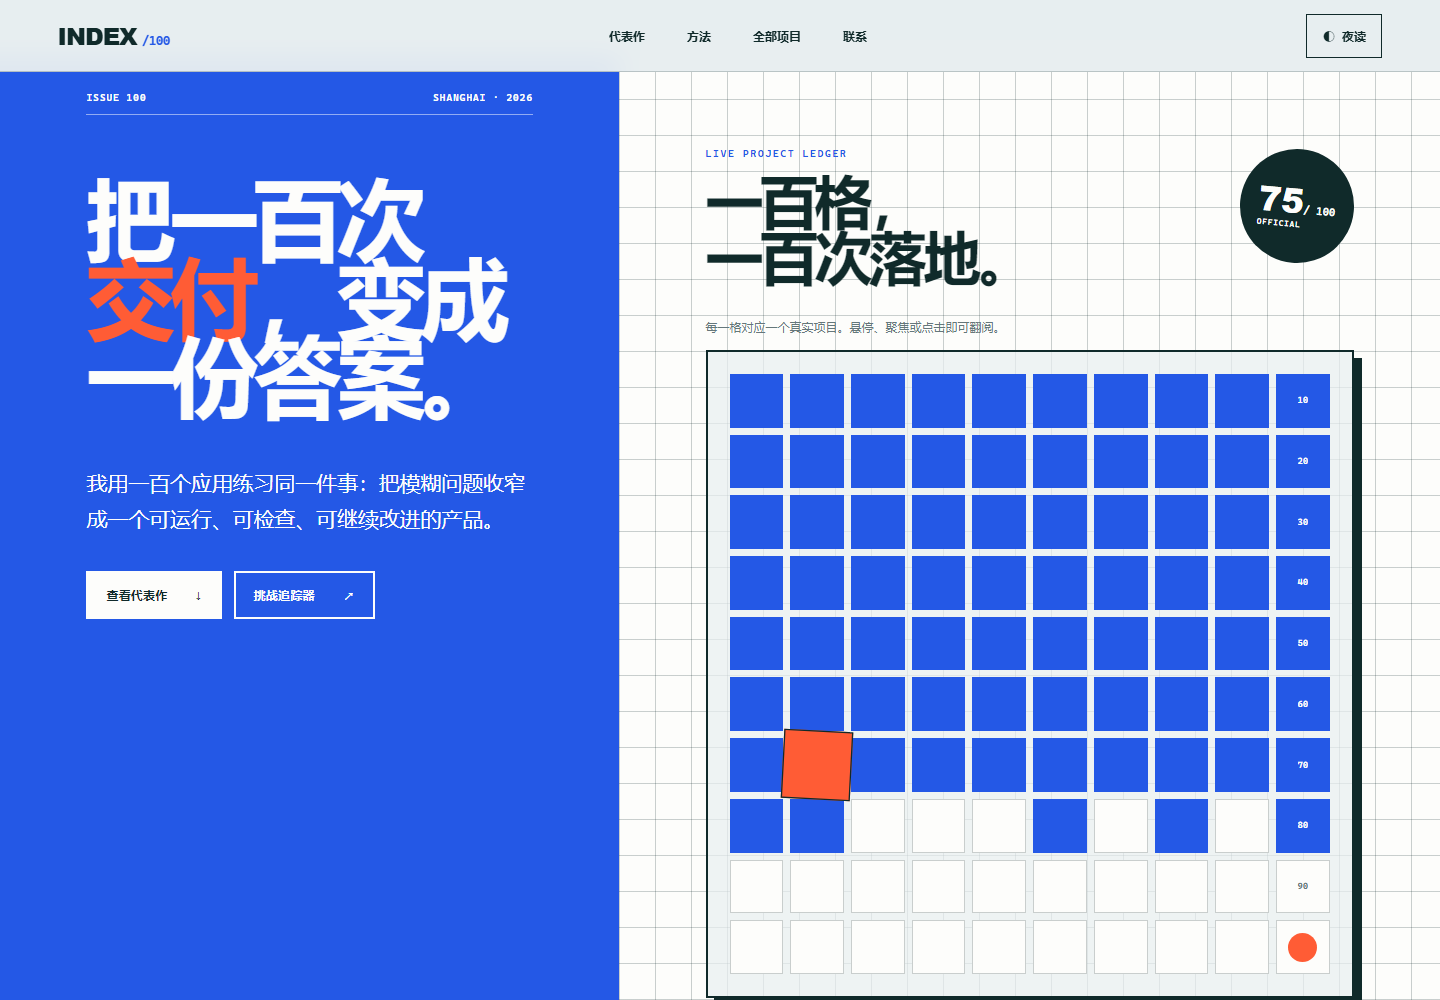
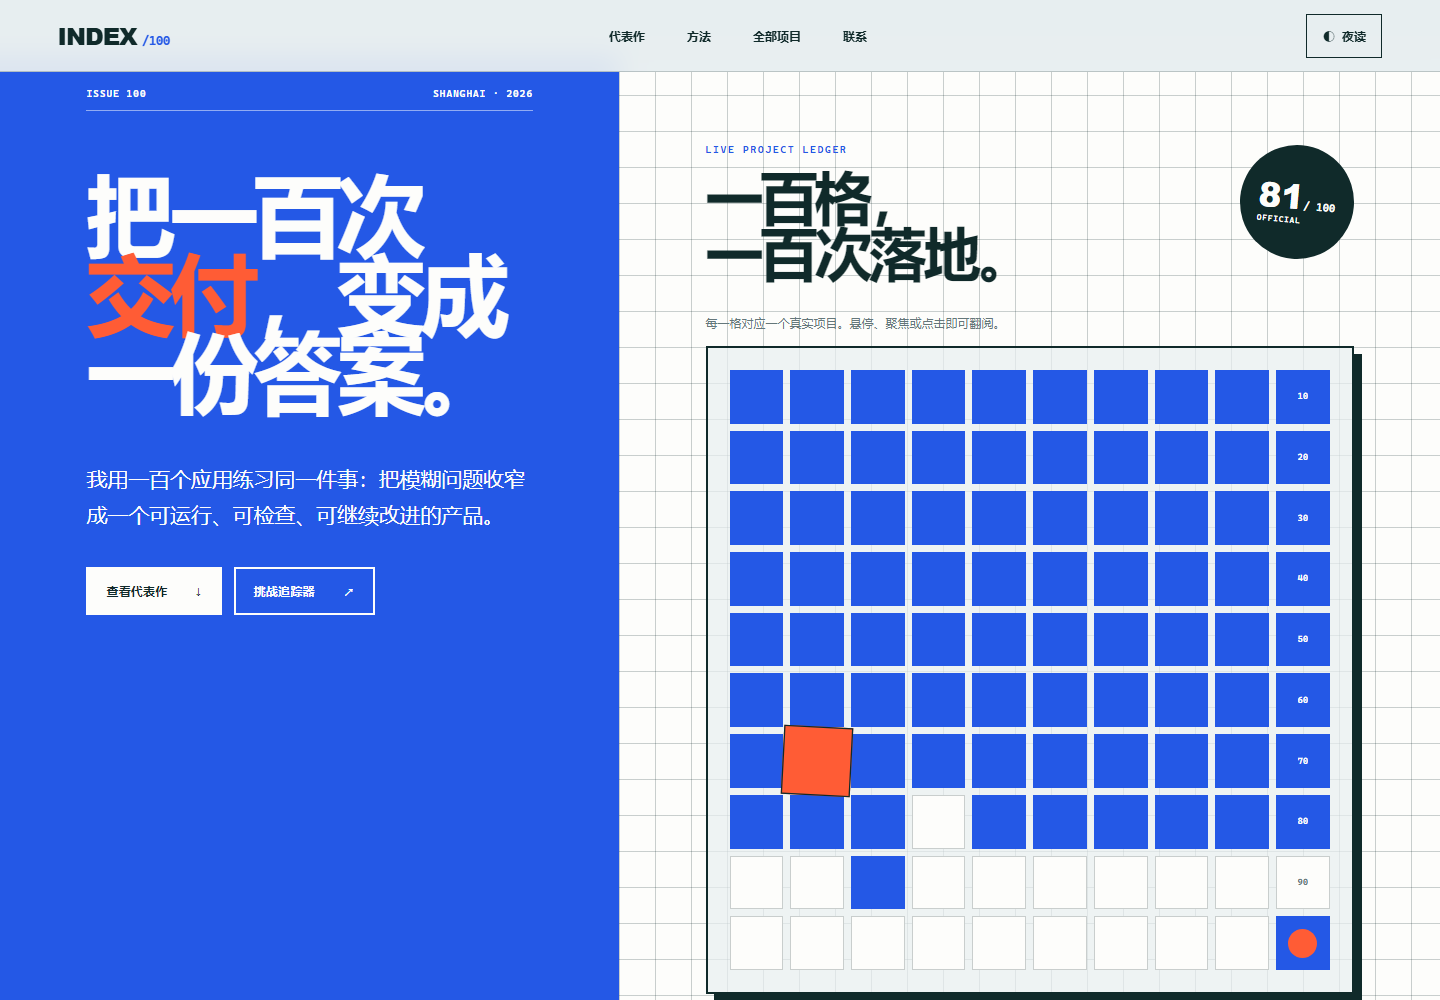
chore: publish app 100 in tracker

diff --git a/index.html b/index.html
@@ -278,12 +278,12 @@ const IDEAS=[
 ["智能家居中控","设备模拟+场景联动面板","5"],
 ["区块链浏览器","查询地址/交易/区块数据","5"],
 ["开源组件库","10+组件+文档站+npm发布","5"],
-["个人作品集网站","集成展示全部作品，求职利器","5"],
+["个人作品集网站","INDEX/100：百应用交付档案+100格项目索引+组合检索与作品清单导出","5","https://jokerlixing.github.io/100apps/apps/100-portfolio/"],
 ["AI Agent平台","多工具调用+任务编排执行","5"]
 ];
 
 const KEY="apps100_v3";
-const INIT_DONE={1:"done",2:"done",3:"done",4:"done",5:"done",6:"done",7:"done",8:"done",9:"done",10:"done",11:"done",12:"done",13:"done",14:"done",15:"done",16:"done",17:"done",18:"done",19:"done",20:"done",21:"done",22:"done",23:"done",24:"done",25:"done",26:"done",27:"done",28:"done",29:"done",30:"done",31:"done",32:"done",33:"done",34:"done",35:"done",36:"done",37:"done",38:"done",39:"done",40:"done",41:"done",42:"done",43:"done",44:"done",45:"done",46:"done",47:"done",48:"done",49:"done",50:"done",51:"done",52:"done",53:"done",54:"done",55:"done",56:"done",57:"done",58:"done",59:"done",60:"done",61:"done",62:"done",63:"done",64:"done",65:"done",66:"done",67:"done",68:"done",69:"done",70:"done",71:"done",72:"done",73:"done",75:"done",76:"done",77:"done",78:"done",79:"done",80:"done",83:"done"}; // 挑战官方进度
+const INIT_DONE={1:"done",2:"done",3:"done",4:"done",5:"done",6:"done",7:"done",8:"done",9:"done",10:"done",11:"done",12:"done",13:"done",14:"done",15:"done",16:"done",17:"done",18:"done",19:"done",20:"done",21:"done",22:"done",23:"done",24:"done",25:"done",26:"done",27:"done",28:"done",29:"done",30:"done",31:"done",32:"done",33:"done",34:"done",35:"done",36:"done",37:"done",38:"done",39:"done",40:"done",41:"done",42:"done",43:"done",44:"done",45:"done",46:"done",47:"done",48:"done",49:"done",50:"done",51:"done",52:"done",53:"done",54:"done",55:"done",56:"done",57:"done",58:"done",59:"done",60:"done",61:"done",62:"done",63:"done",64:"done",65:"done",66:"done",67:"done",68:"done",69:"done",70:"done",71:"done",72:"done",73:"done",75:"done",76:"done",77:"done",78:"done",79:"done",80:"done",83:"done",100:"done"}; // 挑战官方进度
 INIT_DONE[86]="done";
 let apps=[];
 function load(){

diff --git a/qa/tracker.test.js b/qa/tracker.test.js
@@ -442,3 +442,39 @@ test('official completion state migrates a stale app 083 cache entry', () => {
   assert.equal(context.result.apps[0].link, 'https://jokerlixing.github.io/100apps/apps/083-desktop-notes/');
   assert.equal(context.result.didSave, true);
 });
+
+test('app 100 is published as INDEX/100 and officially complete', () => {
+  const ideas = extractIdeas();
+  const doneIds = extractOfficialDoneIds();
+  const app100 = ideas[99];
+
+  assert.equal(app100[0], '个人作品集网站');
+  assert.match(app100[1], /^INDEX\/100/);
+  assert.equal(app100[3], 'https://jokerlixing.github.io/100apps/apps/100-portfolio/');
+  assert.equal(doneIds.has(100), true, 'INIT_DONE must mark app 100 as done');
+});
+
+test('official completion state migrates a stale app 100 cache entry', () => {
+  const ideas = extractIdeas();
+  const initMatch = html.match(/const INIT_DONE=(\{[^}]*\})/);
+  const start = html.indexOf('function syncOfficial(){');
+  const end = html.indexOf('\nfunction save()', start);
+  const context = {};
+
+  vm.runInNewContext(`
+    let apps=[{id:100,name:"个人作品集网站",desc:"旧说明",lv:5,st:"todo",custom:false,link:""}];
+    const IDEAS=${JSON.stringify(ideas)};
+    const INIT_DONE=${initMatch[1]};
+    let didSave=false;
+    function save(){didSave=true}
+    ${html.slice(start, end)}
+    syncOfficial();
+    result={apps,didSave};
+  `, context);
+
+  assert.equal(context.result.apps[0].name, '个人作品集网站');
+  assert.equal(context.result.apps[0].st, 'done');
+  assert.match(context.result.apps[0].desc, /^INDEX\/100/);
+  assert.equal(context.result.apps[0].link, 'https://jokerlixing.github.io/100apps/apps/100-portfolio/');
+  assert.equal(context.result.didSave, true);
+});
